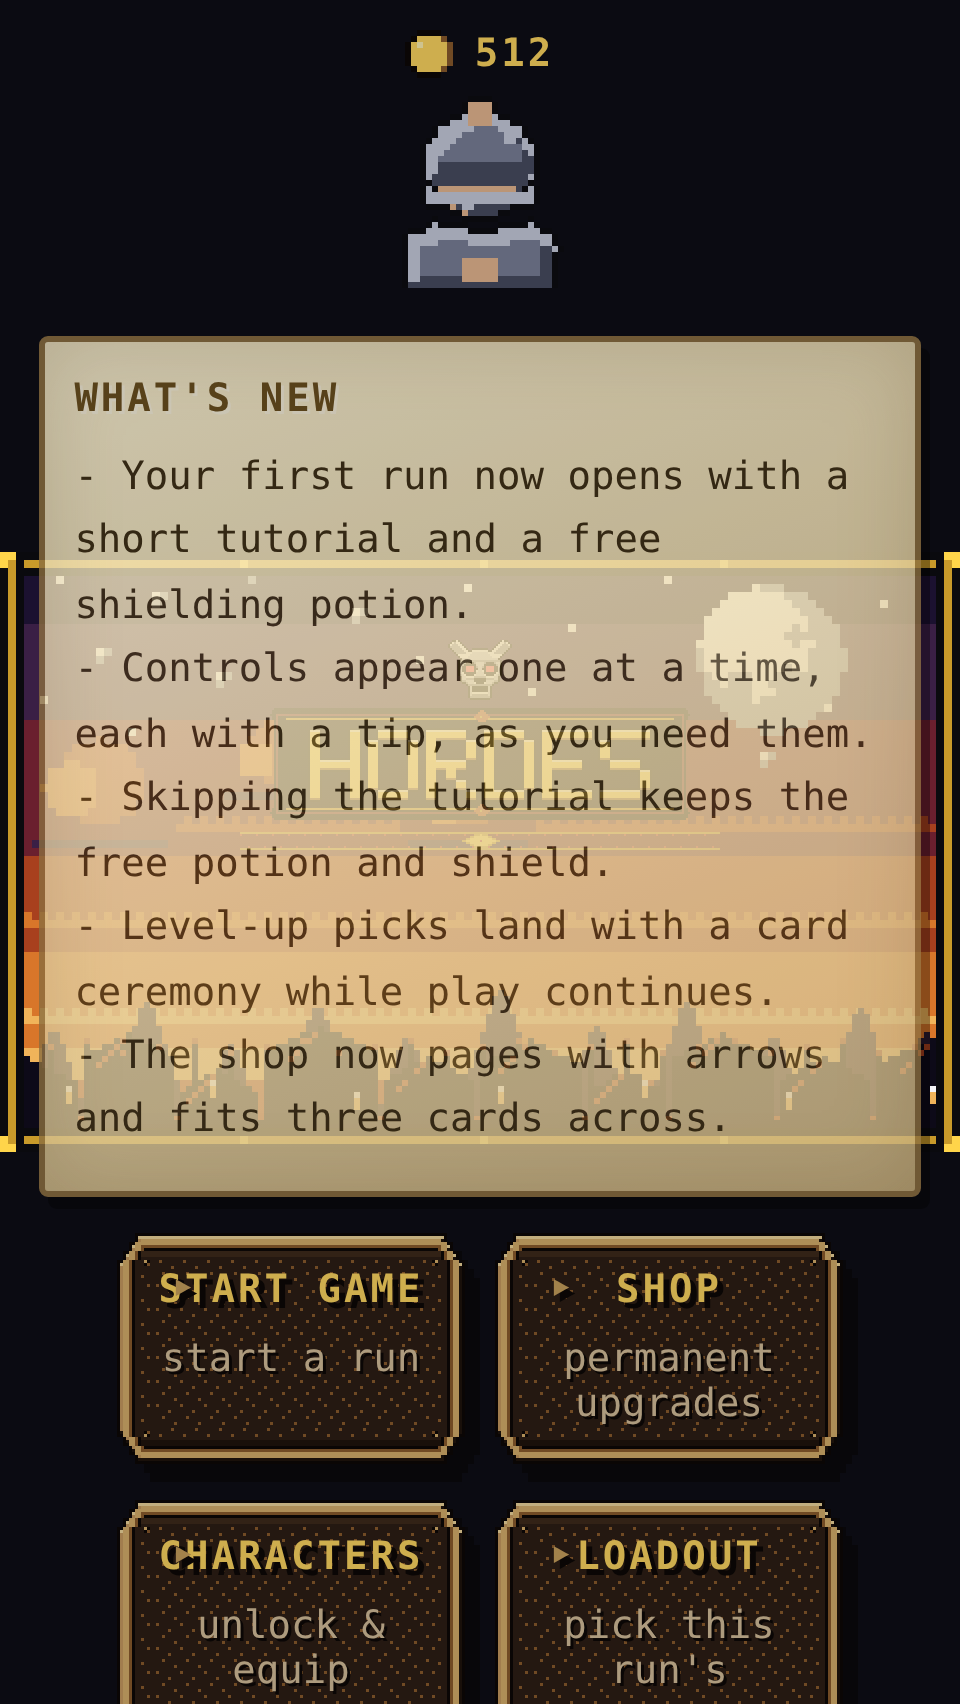
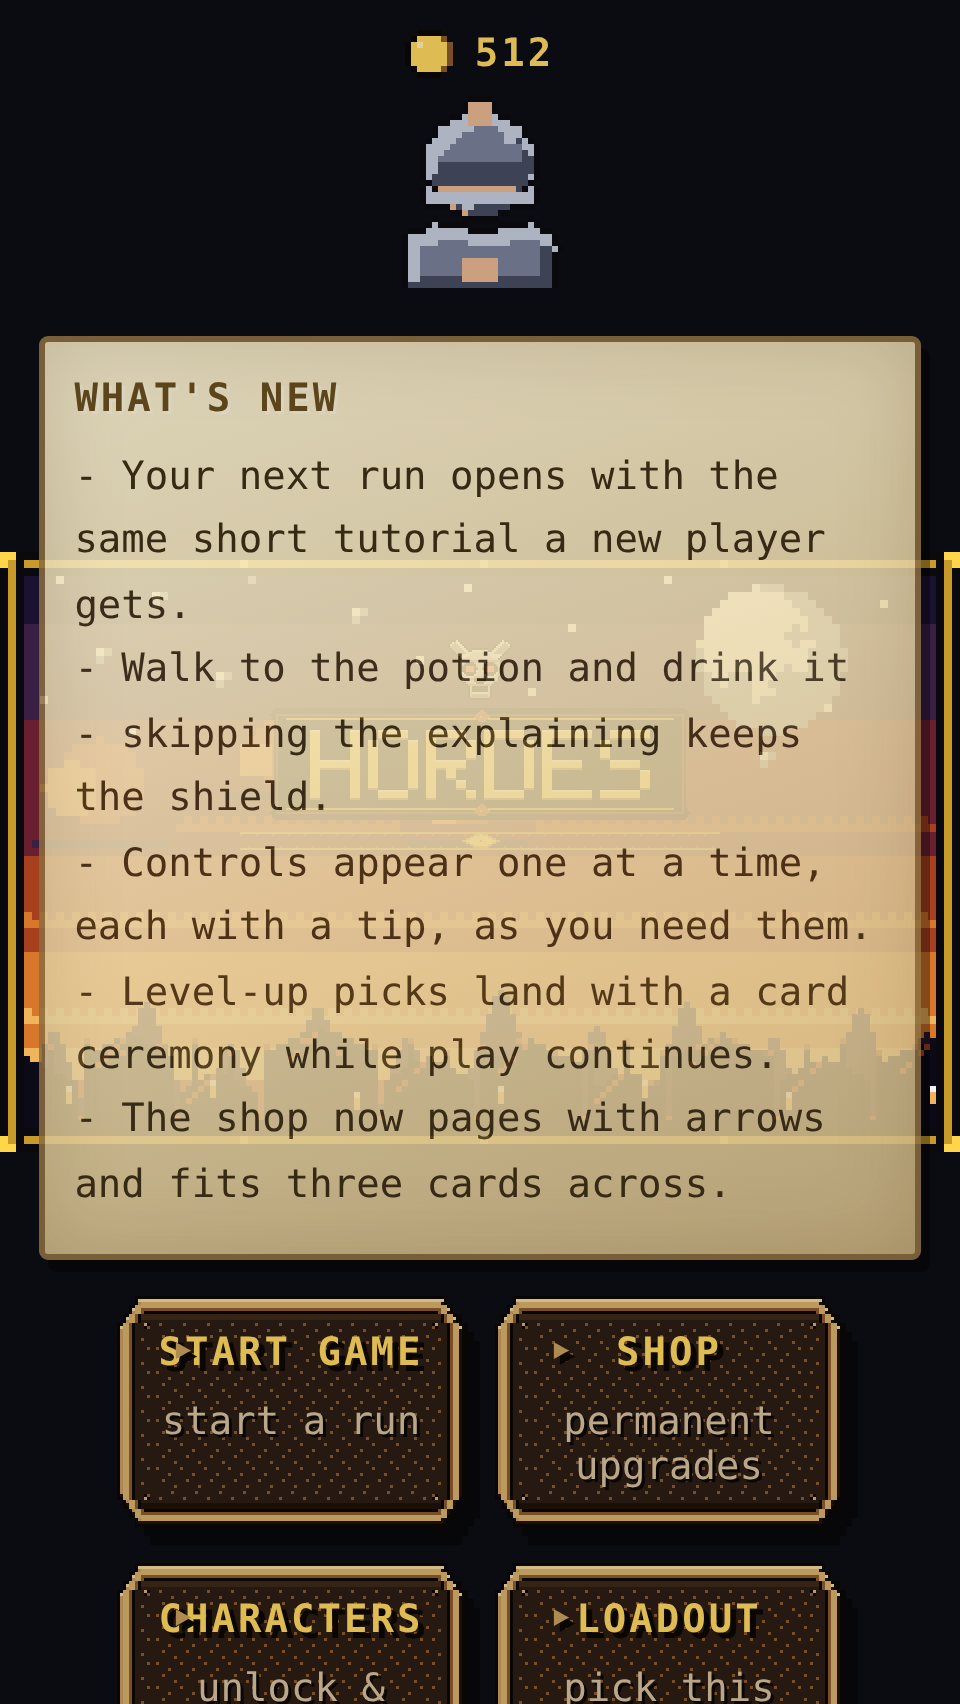
hordes: 2026-09-18 16:13 batch
Touched: src/main.js src/save.js test/test_ult_mana.mjs test/test_whatsnew.mjs
Suite green at commit time (153 files).

Changed region(s): [[0.0312, 0.2488, 0.9688, 1.0], [0.7188, 0.2488, 0.8438, 0.3421], [0.4375, 0.9953, 0.4688, 1.0]]

diff --git a/src/main.js b/src/main.js
@@ -970,15 +970,30 @@ let saveNotice = (bootResult.status === 'corrupt' || bootResult.status === 'futu
 // never fight: a BRAND-NEW profile (no save at all) gets the prologue and NOT
 // this note; a RETURNING profile gets this note and no prologue (their
 // totals.runs is past 0, which is what arms the prologue).
+//
+// ADDENDUM (owner 2026-09-17): ONE TREATMENT, TWO AUDIENCES — "We could even
+// let older players have a one off run just like new players would have." A
+// returning player on a MARKED release gets the note AND the same one-off
+// GUIDED RUN a new player gets (potion, banners, assisted start — the whole
+// state.prologue machinery, nothing veteran-specific). NO new field: it keys
+// off lastSeenUpdate. The DISMISS writes lastSeenUpdate = id immediately (the
+// save IS the proof the player saw it); startRun then arms the guided run
+// while lastSeenUpdate === id (or the note is still due — a player who taps
+// START GAME without dismissing is converting too), and the ARM consumes the
+// one-off by clearing lastSeenUpdate and persisting: the run that opened with
+// the tutorial is the offer, never repeated. Population rules, plainly:
+//   no lastPlayed + other save data -> older player -> note + one-off run;
+//   no lastPlayed + no save at all  -> fresh profile -> prologue, no note;
+//   lastPlayed present              -> normal rules (lastSeenUpdate decides).
 const WHATS_NEW = {
   id: '2026-09-18',                    // RELEASE_ID — one per marked release
   dateMs: Date.UTC(2026, 8, 18),       // the ship date (2026-09-18)
   worthTelling: true,                  // the gate: only MARKED releases pop
   title: "WHAT'S NEW",
   lines: [
-    'Your first run now opens with a short tutorial and a free shielding potion.',
+    'Your next run opens with the same short tutorial a new player gets.',
+    'Walk to the potion and drink it - skipping the explaining keeps the shield.',
     'Controls appear one at a time, each with a tip, as you need them.',
-    'Skipping the tutorial keeps the free potion and shield.',
     'Level-up picks land with a card ceremony while play continues.',
     'The shop now pages with arrows and fits three cards across.',
   ],
@@ -991,6 +1006,18 @@ function whatsNewDueFor(prof, rel, freshBoot) {
   if (prof && prof.lastSeenUpdate === rel.id) return false;   // already dismissed
   const last = prof && typeof prof.lastPlayed === 'number' ? prof.lastPlayed : null;
   return last === null || last < rel.dateMs;     // missing stamp = has not seen it
+}
+// ADDENDUM (owner 2026-09-17): is the ONE-OFF GUIDED RUN due for this player?
+// Pure, and keyed off lastSeenUpdate only (NO new field). True when the player
+// has DISMISSED this release's note (lastSeenUpdate === id) but not yet taken
+// the offered run — the arm at startRun consumes it — or when the note is due
+// RIGHT NOW (they tapped START GAME without dismissing; converting all the
+// same). A brand-new profile never qualifies: the prologue is theirs already.
+function veteranIntroDueFor(prof, rel, freshBoot) {
+  if (!rel || !rel.worthTelling) return false;   // unmarked release: no run either
+  if (freshBoot) return false;                   // brand-new profile: prologue owns it
+  if (prof && prof.lastSeenUpdate === rel.id) return true;    // dismissed, run not yet taken
+  return whatsNewDueFor(prof, rel, false);       // note due this very launch
 }
 let whatsNewTried = false;   // the note is a LAUNCH artifact: first title entry only
 
@@ -7453,7 +7480,15 @@ function startRun() {
   state.prologueShieldT = 0;
   const prologueRunsPlayed = Number(profile.achievements && profile.achievements.totals &&
     profile.achievements.totals.runs) || 0;
-  state.prologue = prologueRunsPlayed === 0
+  // ADDENDUM (owner 2026-09-17, "one off run just like new players"): a
+  // RETURNING player converting on a marked release arms the SAME prologue a
+  // fresh profile gets — keyed off lastSeenUpdate (see veteranIntroDueFor),
+  // never a second saved field. The arm CONSUMES the one-off right here:
+  // clearing lastSeenUpdate and persisting means this run — the one that
+  // opened with the tutorial — is the whole offer; no later run re-arms it
+  // (the persist also stamps lastPlayed, which closes the note's date gate).
+  const veteranIntro = veteranIntroDueFor(profile, WHATS_NEW, bootResult.status === 'fresh');
+  state.prologue = (prologueRunsPlayed === 0 || veteranIntro)
     ? { t: 0, drunk: false, walkT: 0,
         // STAGED INTRODUCTION (owner 2026-09-18: "introduce the buttons one
         // at a time with the tooltip explaining what they do"): each staged
@@ -7494,6 +7529,15 @@ function startRun() {
         if (el && el.classList) el.classList.remove('pr-on');
       }
     }
+  }
+  // The one-off is SPENT at the arm (addendum 2026-09-17): the guided run is
+  // happening right now, so the offer comes off the table in the same breath.
+  // Clearing lastSeenUpdate + persisting (which stamps lastPlayed past the
+  // release date) closes BOTH re-arm paths — the veteran gate and the note's
+  // date gate — through the ONE existing save path. No second writer.
+  if (veteranIntro) {
+    profile.lastSeenUpdate = null;
+    persistProfile();
   }
   state.pendingDrafts = 0;
   state.wave = makeWave();
@@ -10758,11 +10802,13 @@ export const __TEST = {
   // REAL startup menu), the no-local-save test the LOAD FROM DISK card rides
   // on, and the honest-exit contract (the step log + the two screens).
   showTitle, hasLocalSave,
-  // ---- v9 WHAT'S NEW seam: the pure gate (matrix-testable), the live release
+  // ---- v9 WHAT'S NEW seam: the pure gates (matrix-testable), the live release
   // constant, the card add/dismiss pair, and the once-per-launch flag — so the
   // suite can drive the REAL title path without scraping for the card.
+  // veteranDue is the ADDENDUM's one-off-run gate (keys off lastSeenUpdate).
   whatsNew: {
     due: whatsNewDueFor,
+    veteranDue: veteranIntroDueFor,
     release: WHATS_NEW,
     add: addWhatsNewCard,
     dismiss: dismissWhatsNew,

diff --git a/src/save.js b/src/save.js
@@ -276,6 +276,12 @@ const MIGRATIONS = {
   // NOTHING ELSE — no timestamp is invented for a v8 save (a missing stamp
   // legitimately reads as "has not seen the note"), and a present value is left
   // alone for validateProfile to check + report (one repair path, not two).
+  // THE SENTINEL (addendum, owner 2026-09-17): lastPlayed === null is the
+  // DOCUMENTED meaning "played before we tracked this" — an honest unknown,
+  // deliberately NOT a fabricated plausible-looking date (false data would be
+  // worse). The game treats null exactly like that: an older player with other
+  // save facts present gets the returning-player treatment, and the first real
+  // save stamps a true timestamp over it.
   8: (p) => {
     const next = { ...p };
     if (next.lastPlayed === undefined) next.lastPlayed = null;

diff --git a/docs/art/whatsnew-2026-09-18/REPORT.md b/docs/art/whatsnew-2026-09-18/REPORT.md
@@ -1,0 +1,205 @@
+# What's New for Returning Players — 2026-09-18
+
+## The answer first: no, lastPlayed did not exist
+
+Before this change, **nothing in the save system recorded when a profile was
+last played.** The timestamps that did exist were all for other purposes:
+
+- `main.js:3952` / `main.js:3965` — the night-session window check uses a
+  **transient** `Date.now()` each load; it is never persisted.
+- `main.js:10023` — the per-run seed entropy reads the clock; not stored.
+- `achievements.js:402` — per-achievement `earned` times (trophy metadata
+  only; cannot tell "this player was away").
+- `audio.js` — a `lastPlayed` map for sound throttling, in-memory only.
+
+So there was no way to distinguish a returning player from an active one, and
+no way to gate "tell them what they missed." This change adds it.
+
+## What shipped
+
+### 1. `lastPlayed` + `lastSeenUpdate`, one schema bump (v9)
+
+`src/save.js` — `PROFILE_VERSION` 8 → 9, one migration step (v8 → v9) that is
+**pure and lossless**: both new fields are set to `null` when absent, nothing
+else is touched, unknown fields keep surviving as before. Existing saves load
+with `lastPlayed: null` — nothing is invented.
+
+`validateProfile` repairs both fields with the same field-by-field,
+never-invalidate-the-profile discipline: a finite number > 0 floors, anything
+else becomes `null`, every repair is reported.
+
+`src/main.js` gains a single save choke point — `persistProfile()` — which
+stamps `profile.lastPlayed = Date.now()` and writes. All 17 former
+`saveProfile(profile)` call sites (autosaves, shop buys, run end, pagehide
+flush, ...) route through it, so **the timestamp moves on every save**. A
+silent-failure test pins exactly that: save twice, the value must advance.
+
+### 2. The "What's New" paper popup
+
+A release constant in `main.js`:
+
+```js
+const WHATS_NEW = {
+  id: '2026-09-18', dateMs: Date.UTC(2026, 8, 18), worthTelling: true, ...
+};
+```
+
+At title-screen launch the game calls `whatsNewDueFor(profile, release,
+freshBoot)`, which requires ALL of:
+
+- the release is **marked** `worthTelling` (nothing pops for small ships);
+- not a fresh boot;
+- `profile.lastSeenUpdate !== release.id` (shown **once** — the dismissal
+  persists it through the same choke point);
+- `lastPlayed` is `null` **or** predates the release date (a missing
+  timestamp counts as not-seen, per spec).
+
+The gate runs **only at launch** (a `whatsNewTried` latch), never mid-session.
+
+**Precedence rule (implemented and tested):** a brand-new profile gets the
+first-run PROLOGUE, never the popup; a returning profile gets the popup,
+never the prologue. The two are mutually exclusive by construction — the
+prologue arms on `achievements.totals.runs === 0`, the popup requires a
+non-fresh boot result.
+
+The popup itself is a `div.card.paper-note` prepended as the first card on
+the title menu: parchment gradient (`#fff6d6 → #e8d5a6 → #d2ba88`, fully
+opaque), aged border, drop shadow + inner burn-in. Copy is a short plain
+list of what the player GETS (the guided run + shielding potion, staged
+controls, skipping keeps the shield, the card ceremony, shop paging). No
+emojis. Always dismissible — tapping the note closes it and persists; it
+never blocks the menu behind it.
+
+### 3. Completely local
+
+No network anywhere in the path: the release id/date live in code, the
+shown-flag and timestamp live in the same localStorage profile.
+
+## Addendum (owner 2026-09-17): one treatment, two audiences
+
+> "We could even let older players have a one off run just like new players
+> would have. ... And dismissing the popup should write a save so we know the
+> player saw it"
+
+### The one-off guided run
+
+A returning player converting on a marked release gets the note AND the
+**same one-off guided run a new player gets** — potion, banners, staged
+controls, assisted start: the whole `state.prologue` machinery, nothing
+veteran-specific. **No new field:** it keys off `lastSeenUpdate`.
+
+The lifecycle, end to end:
+
+- The note's dismissal writes `lastSeenUpdate = <release id>` **immediately**
+  through the one save choke point (a player who closes the tab right after
+  the tap never sees it again — the persisted BYTES change on the tap, which
+  a test asserts the same way the timestamp's "prove it moved" discipline
+  does).
+- `veteranIntroDueFor` (pure, in `main.js`) says the guided run is due when
+  `lastSeenUpdate === <release id>` (dismissed, run not yet taken) OR the
+  note is due right now (the player tapped START GAME without dismissing —
+  converting all the same).
+- `startRun` arms the prologue for that player and **consumes the offer in
+  the same breath**: it clears `lastSeenUpdate` and persists — so the run
+  that opened with the tutorial IS the one-off, and the persist also stamps
+  `lastPlayed` past the release date, closing the note's date gate too.
+  One save path, no second writer.
+- A player who dismisses but quits before running gets the guided run on
+  their NEXT run, days later — the offer survives reloads because it lives
+  in `lastSeenUpdate`, not in memory.
+- The approved SKIP works from this entry point (tested): skipping stops
+  the explaining, the phase stays armed in skipped mode, and the drink still
+  pays the 45s shield.
+
+### Converting players without a timestamp: the documented sentinel
+
+`lastPlayed === null` is the **documented sentinel** meaning "played before
+we tracked this" (`src/save.js`, v8→v9 migration step). It is an honest
+unknown — never a fabricated plausible-looking date (false data would be
+worse). The first real save stamps a true timestamp over it.
+
+### The population rules, plainly
+
+| profile state | treatment |
+|---|---|
+| no `lastPlayed` + other save data | older player → note + one-off guided run |
+| no `lastPlayed` + no save at all | fresh profile → prologue, no note |
+| `lastPlayed` present | normal rules (`lastSeenUpdate` decides) |
+
+Two fields total, one version bump (v9), one migration step — unchanged.
+
+## Verification
+
+### Headless tests (`test/test_whatsnew.mjs`, 46 checks)
+
+- the timestamp MOVES between saves (silent-failure trap);
+- a v8 save migrates losslessly (gold, purchases, unlocks verbatim) with both
+  fields `null`; garbage values repair to `null` and are reported;
+- the pure gate matrix: marked + old → shown; unmarked → never; fresh
+  profile → never; already-seen → never; active player (recent lastPlayed) →
+  never; missing lastPlayed → shown;
+- the REAL title path renders the note as the first card; a real tap dismisses
+  and persists `lastSeenUpdate`; the game stays on the playable title screen;
+- launch-only (a mid-session state change does not summon it);
+- prologue precedence both ways;
+- the dismiss WRITES THE SAVE (the persisted bytes change on the tap);
+- the veteran matrix: older player → run due; dismissed-not-run → due;
+  fresh profile → not due; active player → not due; unmarked → not due;
+  `lastPlayed` present → `lastSeenUpdate` decides;
+- the REAL arm: `startRun` on the returning profile arms the full treatment
+  (potion, stage-clean, buttons locked) and CONSUMES the one-off in the same
+  breath (`lastSeenUpdate` cleared + persisted, `lastPlayed` stamped);
+- skip from this entry point stays armed in skipped mode, the drink pays the
+  shield and ends the phase;
+- the next `startRun` is a normal run (once);
+- dismissed-but-never-ran arms again on a later run (the offer survives).
+
+Schema pins across the suite were bumped to the **literal 9** with
+intentional-pin comments (`test_save.mjs`, `test_g19_character_upgrades.mjs`,
+`test_save_v3_characters.mjs`, `test_encounters.mjs`), and the stub-DOM
+element factories that the note's `insertBefore` prepend needs were extended
+(`test/_harness.mjs`, `test_pilot_pref.mjs`, `test_rss8_magnet.mjs`,
+`test_ult_mana.mjs`).
+
+**Full suite: `greenfiles=153 redfiles=0`.**
+
+### Browser verifier (`tools/verify_whatsnew.mjs`) — ALL OK at both viewports
+
+Seeds a real v8 profile, loads the real page in Chromium (CDP), and proves:
+migration on load, the note is the first card, the parchment gradient +
+cursor styles are live, the card fits the viewport with the menu reachable
+behind it, a real tap dismisses + persists, a reload does not re-pop, the
+lastPlayed stamp moves across the session — and (the addendum leg) the
+dismissed veteran arms the full guided run on START GAME, the arm consumes
+the one-off persistently, the approved skip + drink pays the shield, and the
+next run is a normal run.
+
+### Screenshots
+
+- `shots/whatsnew-390x844.png` — phone (390×844 @3x)
+- `shots/whatsnew-320x568.png` — small phone (320×568 @3x)
+
+Legibility was checked with pixel ground truth, not just eyeballs: in the
+text-free margin band inside the card there are **0 dark background pixels**
+— the parchment is fully opaque, no bleed-through — and the bottom padding
+measures 22 CSS px. (An automated vision pass claimed transparency and
+"zero padding"; pixel sampling disproved both, and the same pass read the
+game's title as "HEROES".)
+
+## Files
+
+- `src/save.js` — v9 bump, migration step (null sentinel, documented),
+  validation for both fields
+- `src/main.js` — `WHATS_NEW` constant, `whatsNewDueFor`,
+  `veteranIntroDueFor` (the addendum's one-off-run gate), `persistProfile`
+  choke point, `addWhatsNewCard` / `dismissWhatsNew` (dismiss writes the
+  save immediately), the startRun veteran arm + consume, launch gate,
+  `__TEST.whatsNew` seam
+- `index.html` — `.card.paper-note` parchment CSS
+- `test/test_whatsnew.mjs` — new
+- `test/test_save.mjs`, `test_g19_character_upgrades.mjs`,
+  `test_save_v3_characters.mjs`, `test_encounters.mjs`,
+  `test/_harness.mjs`, `test_pilot_pref.mjs`, `test_rss8_magnet.mjs`,
+  `test_ult_mana.mjs` — pins + stub `insertBefore`
+- `tools/browser.mjs` — harness profiles seeded as active players
+- `tools/verify_whatsnew.mjs` — new browser verifier
